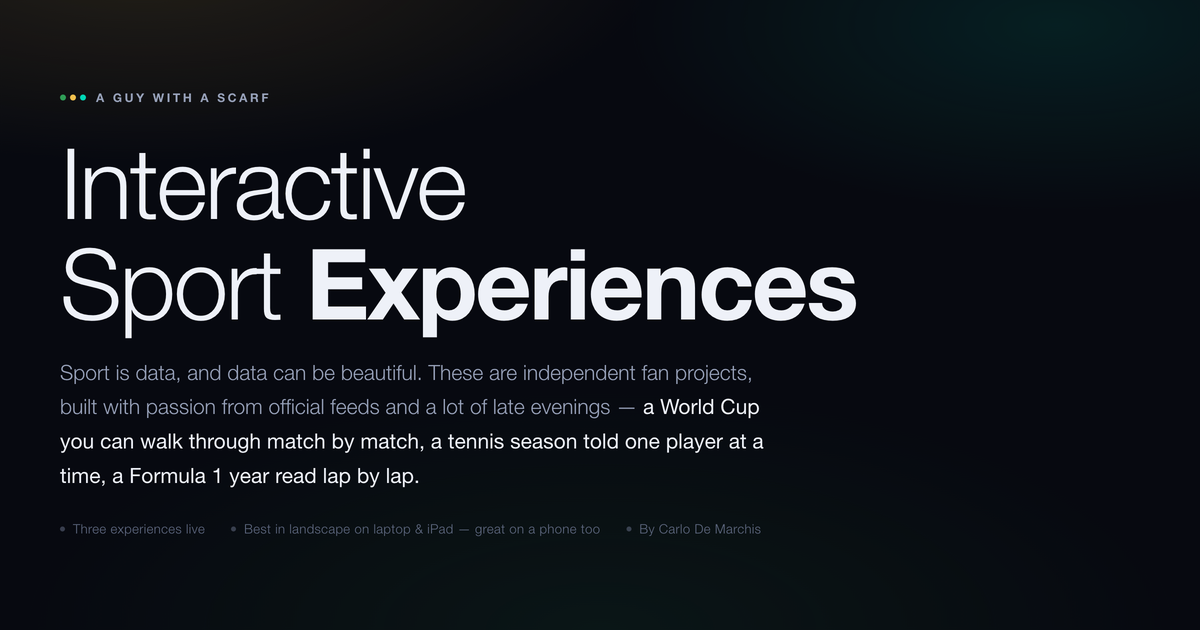
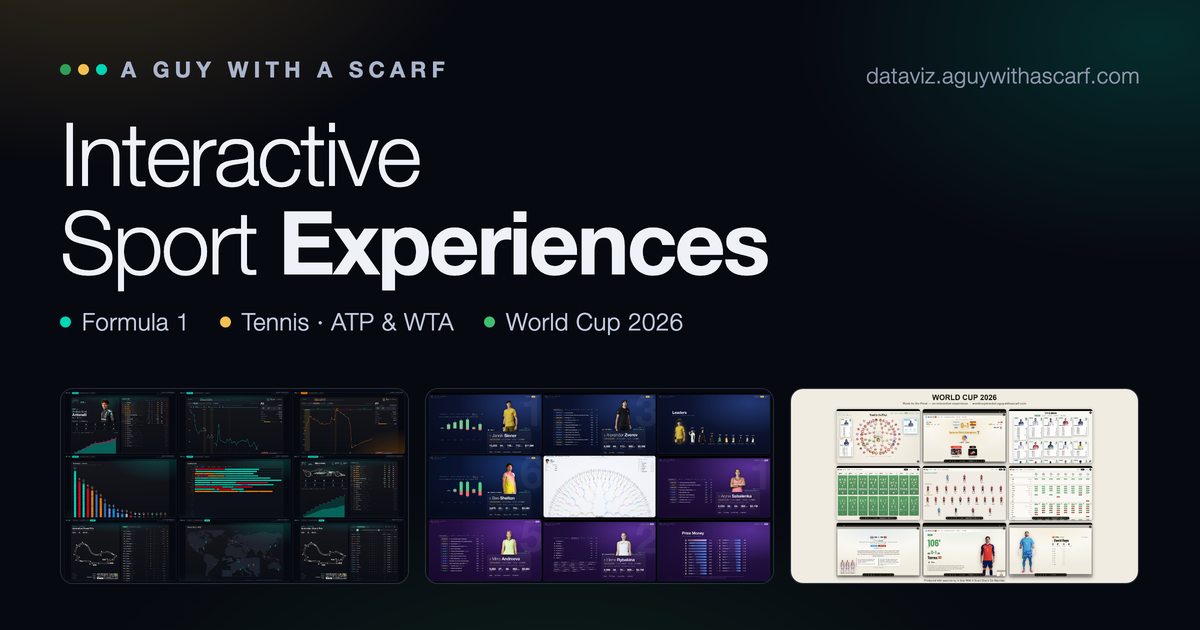
Purpose-built social preview image
The old og.png was a screenshot of the hero, so the lede and meta line
were 13-21px type that turned to mush once LinkedIn scaled the card
down. Replaced with a designed 1200x630: large title, the three sports
labelled by accent, and the three collages as a strip. Smallest type is
now 22px, legible at LinkedIn's ~552px feed width. Cache-buster to v=2.

diff --git a/index.html b/index.html
@@ -12,14 +12,14 @@
 <meta property="og:title" content="Interactive Sport Experiences">
 <meta property="og:description" content="The World Cup 2026 bracket, the ATP &amp; WTA tennis season and the Formula 1 year — told through data and design. Produced with passion by A guy with a scarf.">
 <meta property="og:url" content="https://dataviz.aguywithascarf.com/">
-<meta property="og:image" content="https://dataviz.aguywithascarf.com/img/og.png?v=1">
+<meta property="og:image" content="https://dataviz.aguywithascarf.com/img/og.png?v=2">
 <meta property="og:image:width" content="1200">
 <meta property="og:image:height" content="630">
 <meta property="og:image:alt" content="Interactive Sport Experiences by A guy with a scarf">
 <meta name="twitter:card" content="summary_large_image">
 <meta name="twitter:title" content="Interactive Sport Experiences">
 <meta name="twitter:description" content="The World Cup 2026 bracket, the ATP &amp; WTA tennis season and the Formula 1 year — told through data and design.">
-<meta name="twitter:image" content="https://dataviz.aguywithascarf.com/img/og.png?v=1">
+<meta name="twitter:image" content="https://dataviz.aguywithascarf.com/img/og.png?v=2">
 
 <link rel="icon" href="favicon.svg" type="image/svg+xml">
 <link rel="icon" href="favicon-32.png" sizes="32x32" type="image/png">
